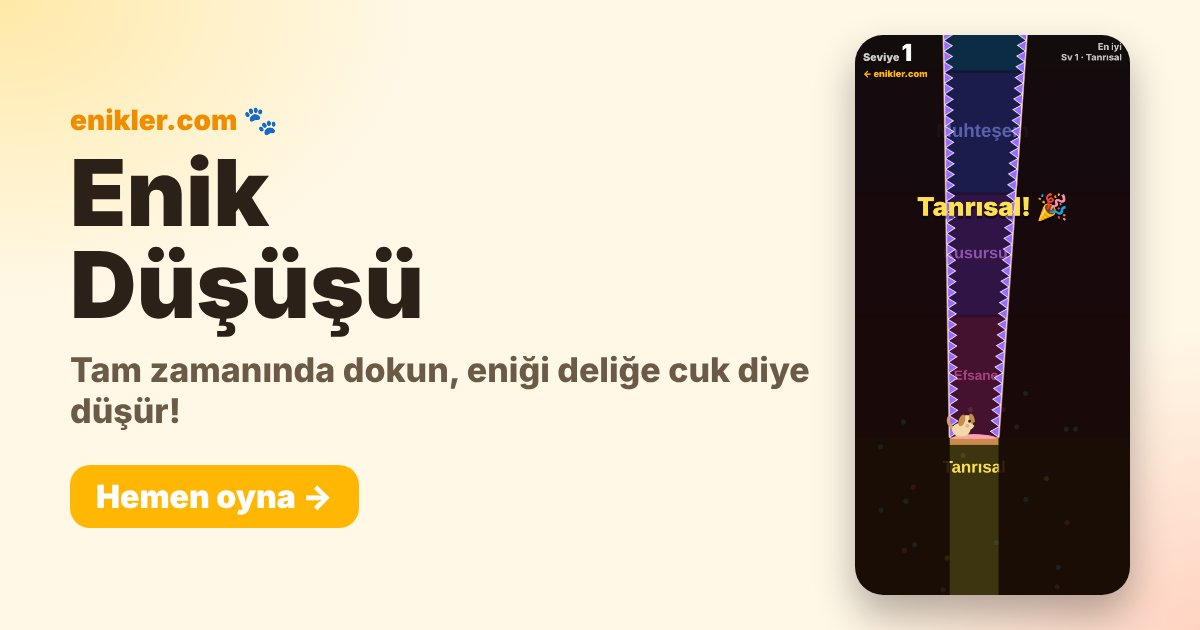
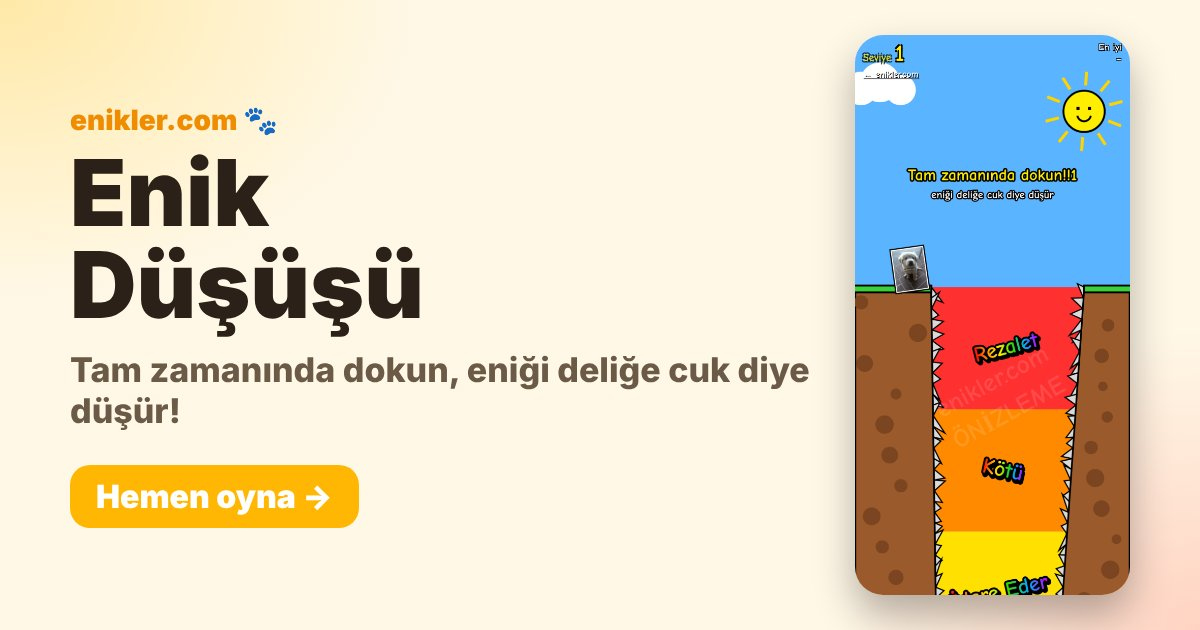
Enik Düşüşü: parodi görünüm
Karakter artık arka planı silinmemiş gerçek bir enik fotoğrafı: her
seviyede sitenin galerisinden (api.php) rastgele seçiliyor, olmazsa
enik.jpg yedeği kullanılıyor. MS Paint tarzı gökyüzü ve duvarlar,
Comic Sans + WordArt rütbe yazıları, iki kareli yürüme, ölünce uçan
fotoğraf ve meme yazısı. Oynanış aynı.

Claude-Session: https://claude.ai/code/session_013gpshtDtcRFrpgd9hDeLNR

Changed region(s): [[0.7092, 0.0302, 0.9558, 0.9651]]

diff --git a/oyun/enik-dusus/index.html b/oyun/enik-dusus/index.html
@@ -3,7 +3,7 @@
 <head>
 <meta charset="UTF-8">
 <meta name="viewport" content="width=device-width, initial-scale=1, viewport-fit=cover, user-scalable=no">
-<meta name="theme-color" content="#1a0d08">
+<meta name="theme-color" content="#5ab4ff">
 <title>Enik Düşüşü – Tam Zamanında Atla! | enikler.com</title>
 <meta name="description" content="Tam zamanında dokun, eniği dikenli deliğe cuk diye düşür! Rezalet'ten Tanrısal'a rütbeni kap, skorunu X'te paylaş.">
 <link rel="canonical" href="https://enikler.com/oyun/enik-dusus/">
@@ -17,35 +17,35 @@
 <meta name="twitter:title" content="Enik Düşüşü 🐾 Cuk diye düşürebilir misin?">
 <meta name="twitter:description" content="Tam zamanında atla, dikenlere değmeden dibe düş. Beni geçebilir misin?">
 <meta name="twitter:image" content="https://enikler.com/oyun/enik-dusus/kapak.jpg">
-<link href="https://fonts.googleapis.com/css2?family=Nunito:wght@700;800;900&display=swap" rel="stylesheet">
+<link href="https://fonts.googleapis.com/css2?family=Comic+Neue:wght@700&display=swap" rel="stylesheet">
 <style>
   :root { --accent:#FFB703; --accent-d:#F08C00; --ink:#2B2118; --like:#22B573; --nope:#F0506E; }
   * { box-sizing:border-box; -webkit-tap-highlight-color:transparent; }
   html, body { margin:0; height:100%; background:#0e0705; overflow:hidden; overscroll-behavior:none; }
-  body { font-family:'Nunito',system-ui,sans-serif; color:#fff; user-select:none; -webkit-user-select:none; touch-action:none; }
+  body { font-family:'Comic Sans MS','Comic Neue','Chalkboard SE',cursive; color:#fff; user-select:none; -webkit-user-select:none; touch-action:none; }
   #wrap { position:fixed; inset:0; max-width:480px; margin:0 auto; }
   canvas { display:block; width:100%; height:100%; }
   .hidden { display:none !important; }
 
   #hud { position:absolute; top:calc(env(safe-area-inset-top) + 10px); left:12px; right:12px; display:flex; justify-content:space-between; align-items:flex-start; pointer-events:none; }
-  #hud .m { font-weight:900; font-size:2.2rem; line-height:1; text-shadow:0 3px 0 rgba(0,0,0,.4); }
+  #hud .m { font-weight:700; font-size:2.2rem; line-height:1; color:#ffee00; text-shadow:2px 2px 0 #000,-2px -2px 0 #000,2px -2px 0 #000,-2px 2px 0 #000; }
   #hud .m small { font-size:1rem; opacity:.8; }
-  #hud .best { font-weight:800; font-size:.85rem; opacity:.75; text-align:right; }
-  #home { pointer-events:auto; display:inline-block; margin-top:6px; color:var(--accent); font-weight:900; font-size:.85rem; text-decoration:none; }
+  #hud .best { font-weight:700; font-size:.9rem; text-align:right; text-shadow:1px 1px 0 #000,-1px -1px 0 #000,1px -1px 0 #000,-1px 1px 0 #000; }
+  #home { pointer-events:auto; display:inline-block; margin-top:6px; color:#fff; font-weight:700; font-size:.85rem; text-decoration:underline; text-shadow:1px 1px 0 #000; }
 
-  #pop { position:absolute; left:0; right:0; top:28%; text-align:center; font-weight:900; font-size:2.4rem; pointer-events:none;
+  #pop { position:absolute; left:0; right:0; top:28%; text-align:center; font:2.8rem Impact,'Arial Black',sans-serif; -webkit-text-stroke:2px #000; transform:rotate(-6deg); pointer-events:none;
          opacity:0; transform:scale(.6); transition:opacity .25s, transform .25s; text-shadow:0 4px 0 rgba(0,0,0,.45); }
   #pop.on { opacity:1; transform:scale(1); }
 
   #over { position:absolute; inset:0; display:flex; align-items:center; justify-content:center; padding:16px; background:rgba(14,7,5,.55); }
   #over.hidden { display:none; }
-  .card { width:100%; max-width:340px; background:#FFF8E7; color:var(--ink); border-radius:28px; padding:24px 20px 20px; text-align:center; box-shadow:0 20px 40px rgba(0,0,0,.4); animation:in .3s ease-out; }
+  .card { width:100%; max-width:340px; background:#FFF8E7; color:var(--ink); border-radius:28px; padding:24px 20px 20px; text-align:center; box-shadow:0 20px 40px rgba(0,0,0,.4); animation:in .3s ease-out; transform:rotate(-2deg); border:3px solid #000; }
   @keyframes in { from { transform:translateY(30px) scale(.9); opacity:0; } }
   .card .rank { font-weight:900; font-size:2.3rem; line-height:1.1; margin:2px 0 4px; }
   .card .dep { font-weight:900; font-size:1.2rem; }
   .card .bst { font-weight:800; font-size:.9rem; color:#8a7a66; margin-top:2px; }
   .card .rec { display:inline-block; margin-top:8px; background:var(--nope); color:#fff; font-weight:900; font-size:.8rem; padding:4px 12px; border-radius:99px; }
-  .btn { display:block; width:100%; margin-top:12px; border:0; border-radius:16px; padding:14px; font:900 1.1rem 'Nunito',sans-serif; cursor:pointer; text-decoration:none; }
+  .btn { display:block; width:100%; margin-top:12px; border:0; border-radius:16px; padding:14px; font:700 1.15rem 'Comic Sans MS','Comic Neue',cursive; cursor:pointer; text-decoration:none; }
   .btn.go { background:var(--accent); color:#fff; box-shadow:0 5px 0 var(--accent-d); }
   .btn.sh { background:#111; color:#fff; box-shadow:0 5px 0 #000; }
   .btn:active { transform:translateY(3px); box-shadow:none; }
@@ -90,17 +90,17 @@ const SPIKE = 11;       // diken boyu
 const HIT = ER * 0.8 + SPIKE * 0.5; // merkezden duvara izin verilen en yakın mesafe
 const STEP = 1000 / 60; // sabit fizik adımı (her cihazda aynı zıplama)
 const RANKS = [
-  ['Rezalet',    '#2a0b08', '#ff8a7a'],
-  ['Kötü',       '#3b1209', '#ff9e6b'],
-  ['İdare Eder', '#3d2a08', '#ffc94a'],
-  ['Fena Değil', '#2d3a0a', '#d6f25a'],
-  ['İyi',        '#0e3a1b', '#5cf08a'],
-  ['Harika',     '#0a3a34', '#4ff0d6'],
-  ['Süper',      '#0b2c44', '#5cc8ff'],
-  ['Muhteşem',   '#1b1c4c', '#8f9bff'],
-  ['Kusursuz',   '#301446', '#d88cff'],
-  ['Efsane',     '#44122f', '#ff6ec4'],
-  ['Tanrısal',   '#3d3410', '#ffe14d']
+  ['Rezalet',    '#ff3030', '#ff8a7a'],
+  ['Kötü',       '#ff8a00', '#ff9e6b'],
+  ['İdare Eder', '#ffe000', '#ffc94a'],
+  ['Fena Değil', '#9cff2e', '#d6f25a'],
+  ['İyi',        '#21d65b', '#5cf08a'],
+  ['Harika',     '#18e0c8', '#4ff0d6'],
+  ['Süper',      '#2aa6ff', '#5cc8ff'],
+  ['Muhteşem',   '#5a5aff', '#8f9bff'],
+  ['Kusursuz',   '#b23cff', '#d88cff'],
+  ['Efsane',     '#ff3cb4', '#ff6ec4'],
+  ['Tanrısal',   '#ffd700', '#ffe14d']
 ];
 const BAND = D / (RANKS.length - 1); // ilk 10 rütbe kuyu boyunca, Tanrısal = dibe ulaşmak
 
@@ -132,6 +132,7 @@ const lx = y => LEDGE + (cfg.lb - LEDGE) * Math.min(1, Math.max(0, y) / D);
 const rx = y => TOP_R + (cfg.rb - TOP_R) * Math.min(1, Math.max(0, y) / D);
 
 function startLevel(l) {
+  nextPhoto(); rag = null;
   lvl = l; cfg = makeLevel(l);
   e = { x:30, y:0, vx:0, vy:0, dir:1, walk:0, rot:0 };
   state = 'ready'; parts = [];
@@ -163,7 +164,8 @@ function die() {
   state = 'dead'; deadAt = performance.now(); shake = 14;
   deadRank = Math.max(0, Math.min(RANKS.length - 2, Math.floor(e.y / BAND)));
   try { navigator.vibrate && navigator.vibrate(70); } catch (_) {}
-  burst(e.x, e.y, 22, ['#f4d9a8', '#f4d9a8', '#c98b4a']);
+  burst(e.x, e.y, 10, ['#ff0000', '#ffee00', '#ffffff']);
+  rag = { x:e.x, y:e.y - 8, vx:(e.x < (lx(e.y) + rx(e.y)) / 2 ? 1 : -1) * (2 + Math.random() * 2), vy:-9, spin:(Math.random() - .5) * .6, t:performance.now(), meme:MEMES[Math.floor(Math.random() * MEMES.length)] };
   const sc = scoreOf(lvl, deadRank), rec = !best || sc > scoreOf(best.l, best.r);
   if (rec) { best = { l:lvl, r:deadRank }; try { localStorage.setItem('enikDususBest2', JSON.stringify(best)); } catch (_) {} $('bm').textContent = fmt(best); }
   if (typeof gtag === 'function') gtag('event', 'oyun_bitti', { oyun:'enik_dusus', seviye:lvl, rutbe:RANKS[deadRank][0] });
@@ -220,105 +222,169 @@ function step() {
   camY += (target - camY) * (state === 'ready' ? 0.08 : 0.15);
 }
 
-/* ---------- Çizim ---------- */
+/* ---------- Enik fotoğrafları (arka planı silinmemiş, aynen öyle) ---------- */
+const FONT = "'Comic Sans MS','Comic Neue','Chalkboard SE',cursive";
+const MEMES = ['BRUH', 'EYVAH', 'ÇAT!', 'NOLDU', 'AH BE', 'OF'];
+let photos = [], photo = new Image(), photoOk = false;
+function loadPhoto(src) {
+  const img = new Image();
+  img.onload = () => { photo = img; photoOk = true; };
+  img.onerror = () => { if (!src.endsWith('enik.jpg')) loadPhoto('enik.jpg'); };
+  img.src = src;
+}
+function nextPhoto() {
+  if (photos.length) loadPhoto('/uploads/' + photos[Math.floor(Math.random() * photos.length)]);
+  else loadPhoto('enik.jpg');
+}
+loadPhoto('enik.jpg');
+fetch('/api.php?action=get_all&sort=new', { cache:'no-store' })
+  .then(r => r.json())
+  .then(d => { photos = (d.data || []).map(x => x.image_url).filter(Boolean); if (photos.length) nextPhoto(); })
+  .catch(() => {});
+
+/* ---------- Çizim (bilerek kötü, MS Paint tadında) ---------- */
+const jit = k => { const v = Math.sin(k * 12.9898) * 43758.5453; return v - Math.floor(v); }; // sabit "rastgele"
+
+function wordArt(text, x, y, size, tilt) {
+  ctx.save(); ctx.translate(x, y); ctx.rotate(tilt);
+  ctx.font = 'bold ' + size + 'px ' + FONT; ctx.textAlign = 'center'; ctx.textBaseline = 'middle';
+  const w = ctx.measureText(text).width;
+  const g = ctx.createLinearGradient(-w / 2, 0, w / 2, 0);
+  ['#ff0000', '#ff9900', '#ffee00', '#33dd00', '#00aaff', '#cc00ff'].forEach((c, i) => g.addColorStop(i / 5, c));
+  ctx.lineWidth = 5; ctx.strokeStyle = '#000'; ctx.lineJoin = 'round'; ctx.strokeText(text, 2, 3);
+  ctx.fillStyle = '#000'; ctx.fillText(text, 3, 4);         // ucuz gölge
+  ctx.strokeText(text, 0, 0); ctx.fillStyle = g; ctx.fillText(text, 0, 0);
+  ctx.restore();
+}
+
 function draw(now) {
   ctx.setTransform(1, 0, 0, 1, 0, 0);
-  ctx.fillStyle = '#120806'; ctx.fillRect(0, 0, cv.width, cv.height);
+  ctx.fillStyle = '#5ab4ff'; ctx.fillRect(0, 0, cv.width, cv.height);
   const sx = (Math.random() - .5) * shake, sy = (Math.random() - .5) * shake;
   ctx.setTransform(scale, 0, 0, scale, sx * scale, (sy - camY) * scale);
   const top = camY, bot = camY + viewH;
 
-  // yıldızlar
+  // gökyüzü: çocuk çizimi güneş + bulut
   if (top < 0) {
-    ctx.fillStyle = 'rgba(255,240,200,.35)';
-    for (let k = 0; k < 30; k++) { const x = (k * 97) % W, y = -((k * 53) % 600) - 20; if (y > top) ctx.fillRect(x, y, 2, 2); }
+    ctx.fillStyle = '#5ab4ff'; ctx.fillRect(0, top, W, -top);
+    ctx.strokeStyle = '#ffd400'; ctx.lineWidth = 4;
+    for (let k = 0; k < 10; k++) { const a = k / 10 * Math.PI * 2 + now / 3000; ctx.beginPath(); ctx.moveTo(300 + Math.cos(a) * 34, -230 + Math.sin(a) * 34); ctx.lineTo(300 + Math.cos(a) * 52, -230 + Math.sin(a) * 52); ctx.stroke(); }
+    ctx.fillStyle = '#ffee00'; ctx.strokeStyle = '#000'; ctx.lineWidth = 2.5;
+    ctx.beginPath(); ctx.arc(300, -230, 27, 0, 7); ctx.fill(); ctx.stroke();
+    ctx.fillStyle = '#000'; ctx.fillRect(290, -236, 4, 4); ctx.fillRect(305, -236, 4, 4);
+    ctx.beginPath(); ctx.arc(300, -226, 9, .2, Math.PI - .2); ctx.stroke();
+    ctx.fillStyle = '#fff';
+    [[70, -260, 22], [95, -268, 26], [122, -258, 20]].forEach(([x, y, r]) => { ctx.beginPath(); ctx.arc(x + (now / 80 % 400) - 100, y, r, 0, 7); ctx.fill(); });
   }
 
-  // rütbe bantları
-  ctx.textAlign = 'center'; ctx.textBaseline = 'middle';
+  // rütbe bantları: göz yakan düz renkler + WordArt yazılar
   for (let z = 0; z < RANKS.length - 1; z++) {
     const y0 = z * BAND; if (y0 > bot || y0 + BAND < top) continue;
-    const rk = RANKS[z];
-    ctx.fillStyle = rk[1]; ctx.fillRect(0, y0, W, BAND);
-    ctx.fillStyle = 'rgba(0,0,0,.25)'; ctx.fillRect(0, y0, W, 3);
+    ctx.fillStyle = RANKS[z][1]; ctx.fillRect(0, y0, W, BAND);
     const ly = y0 + BAND / 2;
-    ctx.font = '900 ' + Math.min(30, (rx(ly) - lx(ly)) / 4) + 'px Nunito, sans-serif';
-    ctx.fillStyle = rk[2]; ctx.globalAlpha = .55;
-    ctx.fillText(rk[0], (lx(ly) + rx(ly)) / 2, ly);
-    ctx.globalAlpha = 1;
+    wordArt(RANKS[z][0], (lx(ly) + rx(ly)) / 2, ly, Math.min(28, (rx(ly) - lx(ly)) / 4), (jit(z) - .5) * .5);
   }
-  // dip: Tanrısal yatağı
+  // dip: Tanrısal minderi
   const gr = RANKS[RANKS.length - 1];
   ctx.fillStyle = gr[1]; ctx.fillRect(0, D, W, 400);
-  ctx.fillStyle = '#c98b4a'; ctx.fillRect(cfg.lb, D, cfg.bw, 10);
-  ctx.fillStyle = '#ff9eb5'; ctx.beginPath(); ctx.ellipse(cfg.cx, D + 2, cfg.bw / 2 - 2, 6, 0, Math.PI, 0); ctx.fill();
-  ctx.font = '900 22px Nunito, sans-serif'; ctx.fillStyle = gr[2];
-  ctx.fillText('Tanrısal', cfg.cx, D + 40);
+  ctx.fillStyle = '#ff4fa3'; ctx.strokeStyle = '#000'; ctx.lineWidth = 2.5;
+  ctx.fillRect(cfg.lb, D - 4, cfg.bw, 14); ctx.strokeRect(cfg.lb, D - 4, cfg.bw, 14);
+  wordArt('Tanrısal', cfg.cx, D + 46, 26, -.12);
 
-  // kaya duvarları
-  ctx.fillStyle = 'rgba(20,8,5,.88)';
-  ctx.beginPath(); ctx.moveTo(0, 6); ctx.lineTo(LEDGE, 6); ctx.lineTo(cfg.lb, D); ctx.lineTo(cfg.lb, D + 400); ctx.lineTo(0, D + 400); ctx.fill();
-  ctx.beginPath(); ctx.moveTo(W, -1); ctx.lineTo(TOP_R, -1); ctx.lineTo(cfg.rb, D); ctx.lineTo(cfg.rb, D + 400); ctx.lineTo(W, D + 400); ctx.fill();
+  // duvarlar: düz kahverengi + kalın siyah kontur
+  ctx.fillStyle = '#9b5a2b'; ctx.strokeStyle = '#000'; ctx.lineWidth = 3;
+  ctx.beginPath(); ctx.moveTo(0, 6); ctx.lineTo(LEDGE, 6); ctx.lineTo(cfg.lb, D); ctx.lineTo(cfg.lb, D + 400); ctx.lineTo(0, D + 400); ctx.closePath(); ctx.fill(); ctx.stroke();
+  ctx.beginPath(); ctx.moveTo(W, -1); ctx.lineTo(TOP_R, -1); ctx.lineTo(cfg.rb, D); ctx.lineTo(cfg.rb, D + 400); ctx.lineTo(W, D + 400); ctx.closePath(); ctx.fill(); ctx.stroke();
+  // duvara Paint "kaya" lekeleri
+  ctx.fillStyle = '#7a4520';
+  for (let k = 0; k < 40; k++) {
+    const y = k * (D / 40) + 20; if (y < top - 20 || y > bot + 20) continue;
+    ctx.beginPath(); ctx.arc(lx(y) * jit(k) * .8 + 8, y, 6 + jit(k + 9) * 6, 0, 7); ctx.fill();
+    ctx.beginPath(); ctx.arc(rx(y) + (W - rx(y)) * (.2 + jit(k + 3) * .6), y + 30, 5 + jit(k + 5) * 7, 0, 7); ctx.fill();
+  }
 
-  // duvar kenarı + dikenler
-  for (const [x0, y0, x1, y1, side] of [[LEDGE, 0, cfg.lb, D, 1], [TOP_R, 0, cfg.rb, D, -1]]) {
-    ctx.strokeStyle = '#c98b4a'; ctx.lineWidth = 3;
-    ctx.beginPath(); ctx.moveTo(x0, y0); ctx.lineTo(x1, y1); ctx.stroke();
+  // dikenler: elle çizilmiş gibi, hepsi farklı boy
+  for (const [x0, y0, x1, y1, side, seed] of [[LEDGE, 0, cfg.lb, D, 1, 1], [TOP_R, 0, cfg.rb, D, -1, 7]]) {
     const len = Math.hypot(x1 - x0, y1 - y0), ux = (x1 - x0) / len, uy = (y1 - y0) / len;
     const nx = uy * side, ny = -ux * side, n = Math.floor(len / 14);
-    ctx.fillStyle = '#9b6bff'; ctx.strokeStyle = '#e9ddff'; ctx.lineWidth = 1.2;
+    ctx.fillStyle = '#d9d9d9'; ctx.strokeStyle = '#000'; ctx.lineWidth = 1.6;
     const k0 = Math.max(0, Math.floor((top - y0 - 20) / (y1 - y0) * n)), k1 = Math.min(n, Math.ceil((bot - y0 + 20) / (y1 - y0) * n));
     for (let k = k0; k < k1; k++) {
-      const a = k / n, b = (k + 1) / n, m = (a + b) / 2;
+      const a = k / n, b = (k + 1) / n, m = (a + b) / 2 + (jit(k + seed) - .5) * .02, h = SPIKE * (.7 + jit(k * 3 + seed) * .7);
       ctx.beginPath();
       ctx.moveTo(x0 + (x1 - x0) * a, y0 + (y1 - y0) * a);
-      ctx.lineTo(x0 + (x1 - x0) * m + nx * SPIKE, y0 + (y1 - y0) * m + ny * SPIKE);
+      ctx.lineTo(x0 + (x1 - x0) * m + nx * h, y0 + (y1 - y0) * m + ny * h);
       ctx.lineTo(x0 + (x1 - x0) * b, y0 + (y1 - y0) * b);
       ctx.closePath(); ctx.fill(); ctx.stroke();
     }
   }
 
-  // platform
-  ctx.fillStyle = '#FFF4D6'; ctx.fillRect(0, -1, LEDGE, 7);
-  ctx.fillRect(TOP_R, -1, W - TOP_R, 7);
+  // platform: yeşil Paint çimeni
+  ctx.fillStyle = '#3ad13a'; ctx.strokeStyle = '#000'; ctx.lineWidth = 2.5;
+  ctx.fillRect(0, -2, LEDGE, 9); ctx.strokeRect(-3, -2, LEDGE + 3, 9);
+  ctx.fillRect(TOP_R, -2, W - TOP_R, 9); ctx.strokeRect(TOP_R, -2, W - TOP_R + 3, 9);
 
-  // enik
-  if (state !== 'dead') drawEnik(e.x, e.y - (state === 'ready' ? ER : 0), state === 'ready' ? e.dir : 1, e.rot, now);
+  // enik fotoğrafı
+  if (state === 'dead') drawRagdoll(now);
+  else drawEnik(e.x, e.y - (state === 'ready' ? ER : 0), state === 'ready' ? e.dir : 1, e.rot, now);
 
-  // parçacıklar
-  parts.forEach(p => { ctx.globalAlpha = Math.max(0, p.life); ctx.fillStyle = p.c; ctx.beginPath(); ctx.arc(p.x, p.y, 3.5, 0, 7); ctx.fill(); });
+  // parçacıklar (kare, çünkü Paint)
+  parts.forEach(p => { ctx.globalAlpha = Math.max(0, p.life); ctx.fillStyle = p.c; ctx.fillRect(p.x - 3, p.y - 3, 6, 6); });
   ctx.globalAlpha = 1;
 
   // ipucu
   if (state === 'ready') {
-    const bob = Math.sin(now / 250) * 3;
-    ctx.font = '900 20px Nunito, sans-serif'; ctx.fillStyle = '#FFB703';
-    ctx.fillText(lvl === 1 ? 'Tam zamanında dokun!' : 'Seviye ' + lvl, W / 2, -150 + bob);
-    ctx.font = '800 14px Nunito, sans-serif'; ctx.fillStyle = 'rgba(255,244,214,.8)';
-    ctx.fillText(lvl === 1 ? 'Eniği deliğe cuk diye düşür 🐾' : 'Delik daraldı, enik hızlandı!', W / 2, -124 + bob);
+    const bob = Math.floor(now / 400) % 2 * 4; // akıcı değil, bilerek kesik kesik
+    ctx.textAlign = 'center'; ctx.textBaseline = 'middle';
+    ctx.font = 'bold 21px ' + FONT; ctx.lineWidth = 4; ctx.strokeStyle = '#000'; ctx.fillStyle = '#ffee00';
+    const t1 = lvl === 1 ? 'Tam zamanında dokun!!1' : 'Seviye ' + lvl + ' !!';
+    ctx.strokeText(t1, W / 2, -150 + bob); ctx.fillText(t1, W / 2, -150 + bob);
+    ctx.font = 'bold 14px ' + FONT; ctx.fillStyle = '#fff'; ctx.lineWidth = 3;
+    const t2 = lvl === 1 ? 'eniği deliğe cuk diye düşür' : 'delik daraldı enik hızlandı';
+    ctx.strokeText(t2, W / 2, -124 + bob); ctx.fillText(t2, W / 2, -124 + bob);
   }
+
+  // stok fotoğraf filigranı
+  ctx.setTransform(1, 0, 0, 1, 0, 0);
+  ctx.save(); ctx.translate(cv.width / 2, cv.height * .62); ctx.rotate(-.5);
+  ctx.font = 'bold ' + Math.round(34 * scale) + 'px ' + FONT; ctx.textAlign = 'center';
+  ctx.fillStyle = 'rgba(255,255,255,.13)'; ctx.fillText('enikler.com', 0, 0); ctx.fillText('ÖNİZLEME', 0, 46 * scale);
+  ctx.restore();
+}
+
+// fotoğrafı kare kare, arka planıyla, kaskatı çiz
+function photoBox(x, y, rot, flip) {
+  const h = 54, w = photoOk ? Math.min(54, h * photo.width / photo.height) : 40;
+  ctx.save(); ctx.translate(x, y); ctx.rotate(rot); ctx.scale(flip, 1);
+  ctx.fillStyle = '#fff'; ctx.fillRect(-w / 2 - 2, -h / 2 - 2, w + 4, h + 4); // yamuk beyaz çerçeve
+  if (photoOk) ctx.drawImage(photo, -w / 2, -h / 2, w, h);
+  else { ctx.fillStyle = '#ccc'; ctx.fillRect(-w / 2, -h / 2, w, h); ctx.fillStyle = '#000'; ctx.font = 'bold 9px ' + FONT; ctx.textAlign = 'center'; ctx.fillText('yükleniyo', 0, 3); }
+  ctx.strokeStyle = '#000'; ctx.lineWidth = 1.5; ctx.strokeRect(-w / 2 - 2, -h / 2 - 2, w + 4, h + 4);
+  ctx.restore();
 }
 
 function drawEnik(x, y, dir, rot, now) {
-  ctx.save(); ctx.translate(x, y); ctx.rotate(rot); ctx.scale(dir, 1);
-  const fall = state === 'air', leg = state === 'ready' ? Math.sin(e.walk) * 3 : 0;
-  ctx.strokeStyle = '#d9a066'; ctx.lineWidth = 4; ctx.lineCap = 'round';
-  ctx.beginPath(); ctx.moveTo(-11, 2); ctx.quadraticCurveTo(-20, -6 + Math.sin(now / 90) * 4, -17, -13); ctx.stroke();
-  ctx.strokeStyle = '#e8b97f'; ctx.lineWidth = 4.5;
-  ctx.beginPath();
-  ctx.moveTo(-6, 7); ctx.lineTo(-6 + leg, fall ? 11 : 13);
-  ctx.moveTo(6, 7); ctx.lineTo(6 - leg, fall ? 11 : 13); ctx.stroke();
-  ctx.fillStyle = '#f4d9a8'; ctx.beginPath(); ctx.ellipse(-1, 3, 12, 9, 0, 0, 7); ctx.fill();
-  ctx.beginPath(); ctx.arc(7, -6, 10, 0, 7); ctx.fill();
-  ctx.fillStyle = '#c98b4a';
-  ctx.beginPath(); ctx.ellipse(0, -9, 4, 8, fall ? -1.2 : 0.35, 0, 7); ctx.fill();
-  ctx.beginPath(); ctx.ellipse(13, -11, 3.5, 7, fall ? 1.1 : -0.25, 0, 7); ctx.fill();
-  ctx.fillStyle = '#2B2118';
-  if (fall) { ctx.beginPath(); ctx.arc(10, -8, 2.6, 0, 7); ctx.fill(); ctx.fillStyle = '#fff'; ctx.beginPath(); ctx.arc(10.8, -8.8, .9, 0, 7); ctx.fill(); }
-  else { ctx.beginPath(); ctx.arc(10, -8, 1.9, 0, 7); ctx.fill(); }
-  ctx.fillStyle = '#2B2118'; ctx.beginPath(); ctx.arc(16.5, -4.5, 2.2, 0, 7); ctx.fill();
-  if (fall) { ctx.beginPath(); ctx.arc(13, -0.5, 1.8, 0, 7); ctx.fill(); }
-  ctx.fillStyle = 'rgba(240,80,110,.35)'; ctx.beginPath(); ctx.arc(7, -2, 2.5, 0, 7); ctx.fill();
+  if (state === 'ready') {
+    const stepPose = Math.floor(e.walk / 1.6) % 2;       // 2 kareli "animasyon"
+    photoBox(x, y - 10 - stepPose * 4, stepPose ? .14 : -.14, dir);
+  } else if (state === 'air') {
+    photoBox(x, y - 8, rot + Math.max(0, e.y) * 0.004, 1);  // düşerken yavaşça döner
+  } else {
+    photoBox(x, y - 8, 0, 1);
+  }
+}
+
+// ölünce fotoğraf fırlayıp dönerek uçar
+let rag = null;
+function drawRagdoll(now) {
+  if (!rag) return;
+  const t = (now - rag.t) / 16.667;
+  photoBox(rag.x + rag.vx * t, rag.y + rag.vy * t + .25 * t * t, rag.spin * t, 1);
+  ctx.save(); ctx.setTransform(1, 0, 0, 1, 0, 0);
+  const s = Math.min(1, t / 8);
+  ctx.font = 'bold ' + Math.round(64 * scale * (.6 + .4 * s)) + 'px Impact, "Arial Black", sans-serif';
+  ctx.textAlign = 'center'; ctx.lineWidth = 6 * scale / 2; ctx.strokeStyle = '#000'; ctx.fillStyle = '#fff';
+  ctx.strokeText(rag.meme, cv.width / 2, cv.height * .22); ctx.fillText(rag.meme, cv.width / 2, cv.height * .22);
   ctx.restore();
 }
 
